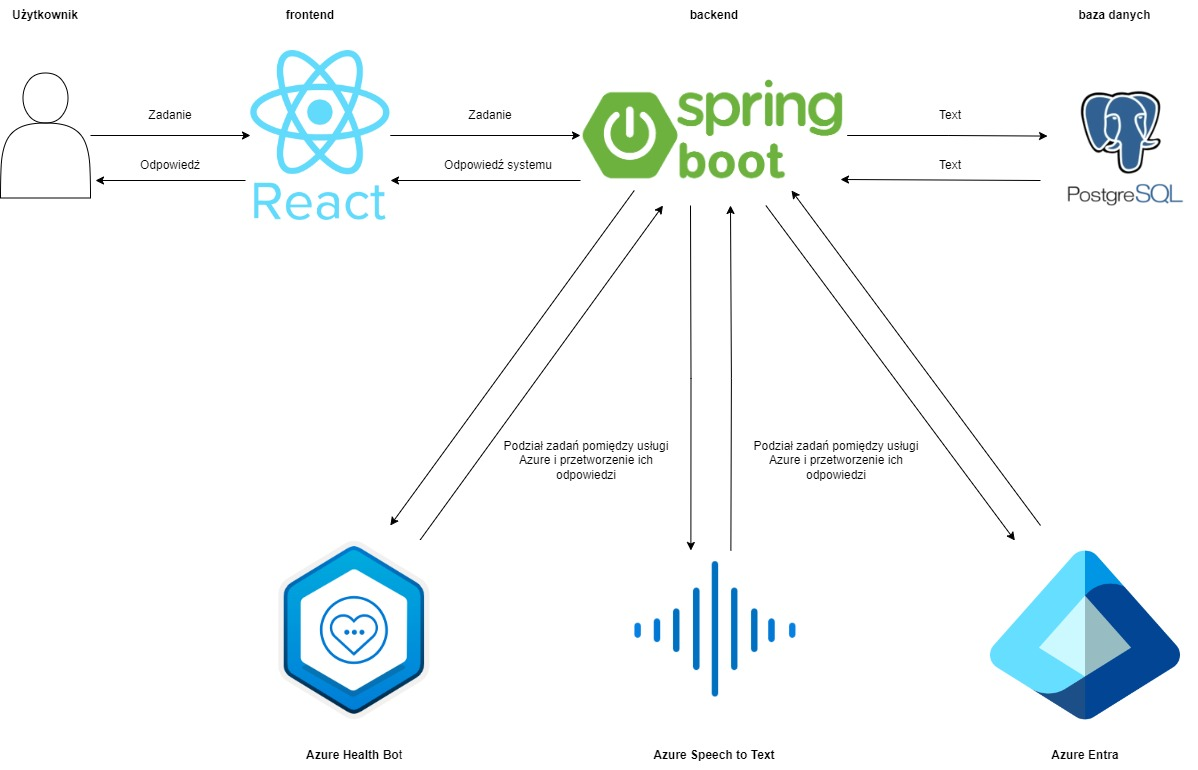
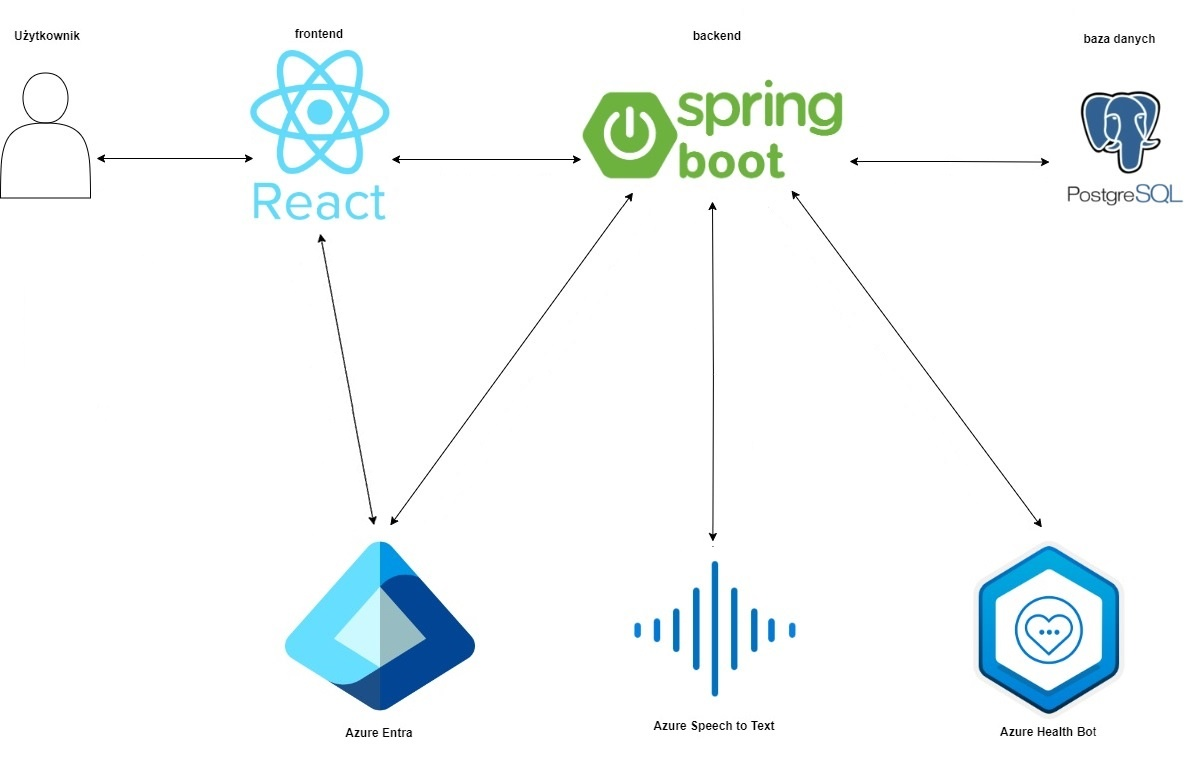
Corrections of architecture diagram

diff --git a/documentation/README.md b/documentation/README.md
@@ -232,7 +232,7 @@ bash
 Architektura systemu
 --------------------
 
-![alt text](image-17.png)
+![alt text](image-18.png)
 
 ### Architektura systemu Health Assistant
 
